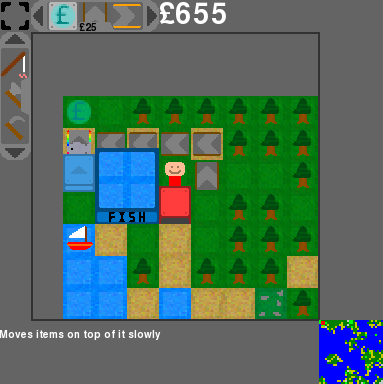
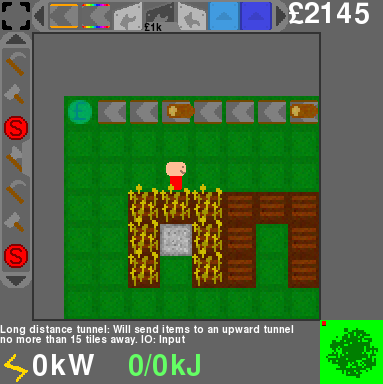
Utility Update
+Long Tunnels
+AutoPickers

diff --git a/Monolith/Farming.py b/Monolith/Farming.py
@@ -9,6 +9,7 @@ import Object
 import random
 import Buyers
 import Entity
+randint=random.randint
 class Hoe(Tools.Tool):
     img=Img.imgret2("Farming\\Hoe.png")
     def use(self, x, y, world, p):
@@ -19,18 +20,23 @@ class Crop(Object.OObject):
     doc="A good crop for growing"
     updatable=True
     cropitem=None
+    gm=1
     def __init__(self, x, y, owner):
         self.x = x
         self.y = y
         self.owner = owner
         self.growth=0
+        self.tngrow=randint(1800*self.gm,3600*self.gm)
     def get_img(self,world):
         if self.owner:
             return self.imgs[self.growth]
         return self.cropitem.img
     def update(self,world):
-        if not random.randint(0,2000) and self.growth<4:
+        if self.tngrow==0 and self.growth<4:
             self.growth+=1
+            self.tngrow=randint(1800*self.gm,3600*self.gm)
+        elif self.tngrow>0:
+            self.tngrow-=1
     def pick(self,world):
         if self.growth==4:
             self.growth=0
@@ -39,6 +45,7 @@ class WheatItem(Entity.ResourceB):
     value=5
     img=Img.imgret2("Farming\\Wheat.png")
     name="Wheat"
+    doc="Wheat: Not a valuable crop on its own, but can be baked into bread in an oven."
 class BreadItem(Entity.ResourceB):
     value=20
     img=Img.imgret2("Farming\\Bread.png")
@@ -90,9 +97,32 @@ class CropBuyer(Buyers.ObjBuyer):
             world.spawn_obj(self.objclass(tx, ty, p))
             return True
         return False
+class AutoPicker(Object.OObject):
+    is3d=True
+    img=Img.imgret2("Farming\\AutoFarm.png")
+    hasio="output"
+    updatable=True
+    doc="Harvests Plants in the 3x3 square around it and outputs the crops. Uses 500W. IO: Output"
+    def __init__(self,x,y,owner):
+        Object.OObject.__init__(self,x,y,owner)
+        self.idle=60
+        self.output=[]
+    def update(self,world):
+        hasp=self.owner.get_power(500)
+        if self.idle==0:
+            for x in range(self.x-1,self.x+2):
+                for y in range(self.y-1,self.y+2):
+                    if world.get_obj(x,y) and not self.output and hasp:
+                        ent=world.get_obj(x,y).pick(world)
+                        if ent:
+                            self.output.append(ent)
+                            break
+            self.idle=60
+        else:
+            self.idle-=1
 class FarmCat(object):
     img=Img.imgret2("Farming\\Hoe.png")
     iscat=True
     doc="Farming Essentials"
     def __init__(self):
-        self.menu=[CropBuyer(Wheat,10),Buyers.ObjBuyer(Oven,200)]
+        self.menu=[CropBuyer(Wheat,10),Buyers.ObjBuyer(Oven,200),Buyers.ObjBuyer(AutoPicker,1000)]

diff --git a/Monolith/Players.py b/Monolith/Players.py
@@ -26,7 +26,8 @@ class MechCategory(object):
     iscat=True
     doc="Tech stuff"
     def __init__(self):
-        self.menu=[Buyers.RotObjBuyer(Mech.SlowConv,25),Buyers.RotObjBuyer(Mech.Conv,100),Buyers.RotObjBuyer(Mech.RainConv,1000),Buyers.RotObjBuyer(Mech.DownTunnel,200),Buyers.RotObjBuyer(Mech.UpTunnel,500),
+        self.menu=[Buyers.RotObjBuyer(Mech.SlowConv,25),Buyers.RotObjBuyer(Mech.Conv,100),Buyers.RotObjBuyer(Mech.RainConv,1000),
+                   Buyers.RotObjBuyer(Mech.DownTunnel,200),Buyers.RotObjBuyer(Mech.DownTunnelL,1000),Buyers.RotObjBuyer(Mech.UpTunnel,500),
                    Buyers.RotObjBuyer(Mech.Output,100),Buyers.RotObjBuyer(Mech.Output2,200),Buyers.ObjBuyer(Mech.Input,100),Buyers.RotObjBuyer(Mech.IOput,300),Buyers.ObjBuyer(Mech.Buffer5,500),
                    Buyers.ObjBuyer(Mech.Splitter,500),Buyers.ObjBuyer(Mech.PurpPri,500),Buyers.VBuyer(Vehicles.Lorry,1000),Buyers.ObjBuyer(Mech.VInput,50),Buyers.ObjBuyer(Object.SellPointBlock,10000)]
 

diff --git a/Monolith/Mech.py b/Monolith/Mech.py
@@ -371,6 +371,10 @@ class DownTunnel(Object.OObject):
                         self.buffer=None
                         self.updatable=False
                     break
+class DownTunnelL(DownTunnel):
+    imgs=[Img.imgret2("Tunnel\\TunDownL"+s+".png") for s in ["L","D","R","U"]]
+    doc="Long distance tunnel: Will send items to an upward tunnel no more than 15 tiles away. IO: Input"
+    maxlength=15
 class UpTunnel(Object.OObject):
     is3d=True
     off3d=16

diff --git a/Monolith/Generators.py b/Monolith/Generators.py
@@ -33,8 +33,8 @@ class Generator:
         pass
 class Original(Generator):
     musics=stdmix
-    extabs=[Forestry.FTab]
-    extools=[Tools.Axe]
+    extabs=[Forestry.FTab,Farming.FarmCat]
+    extools=[Tools.Axe,Farming.Hoe]
     def generate(self,world):
         self.lake=randint(10,world.size[0]-10),randint(10,world.size[1]-10)
         for x in range(len(world.terr)):
